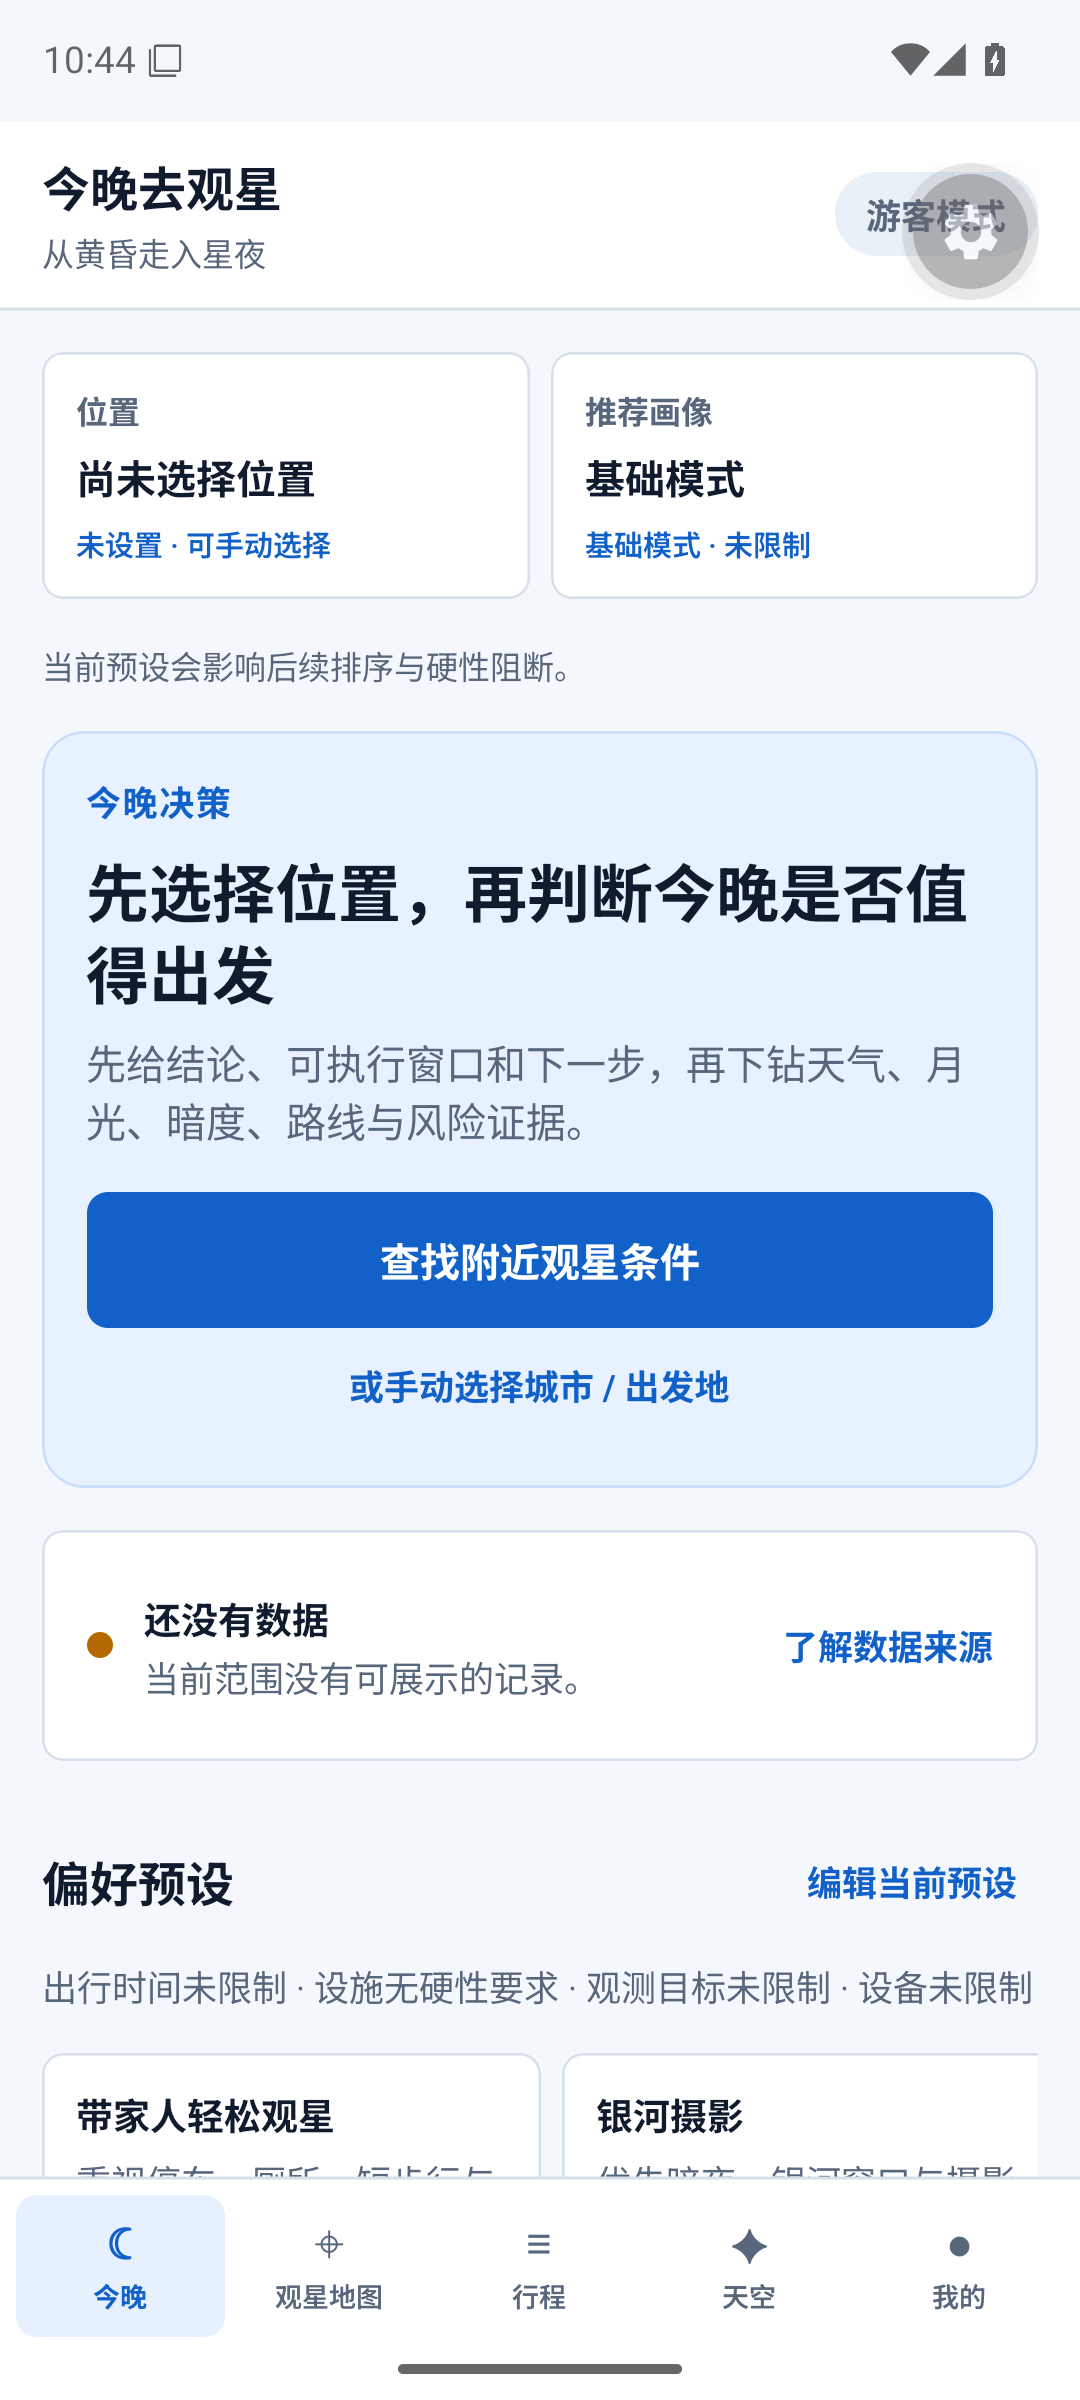
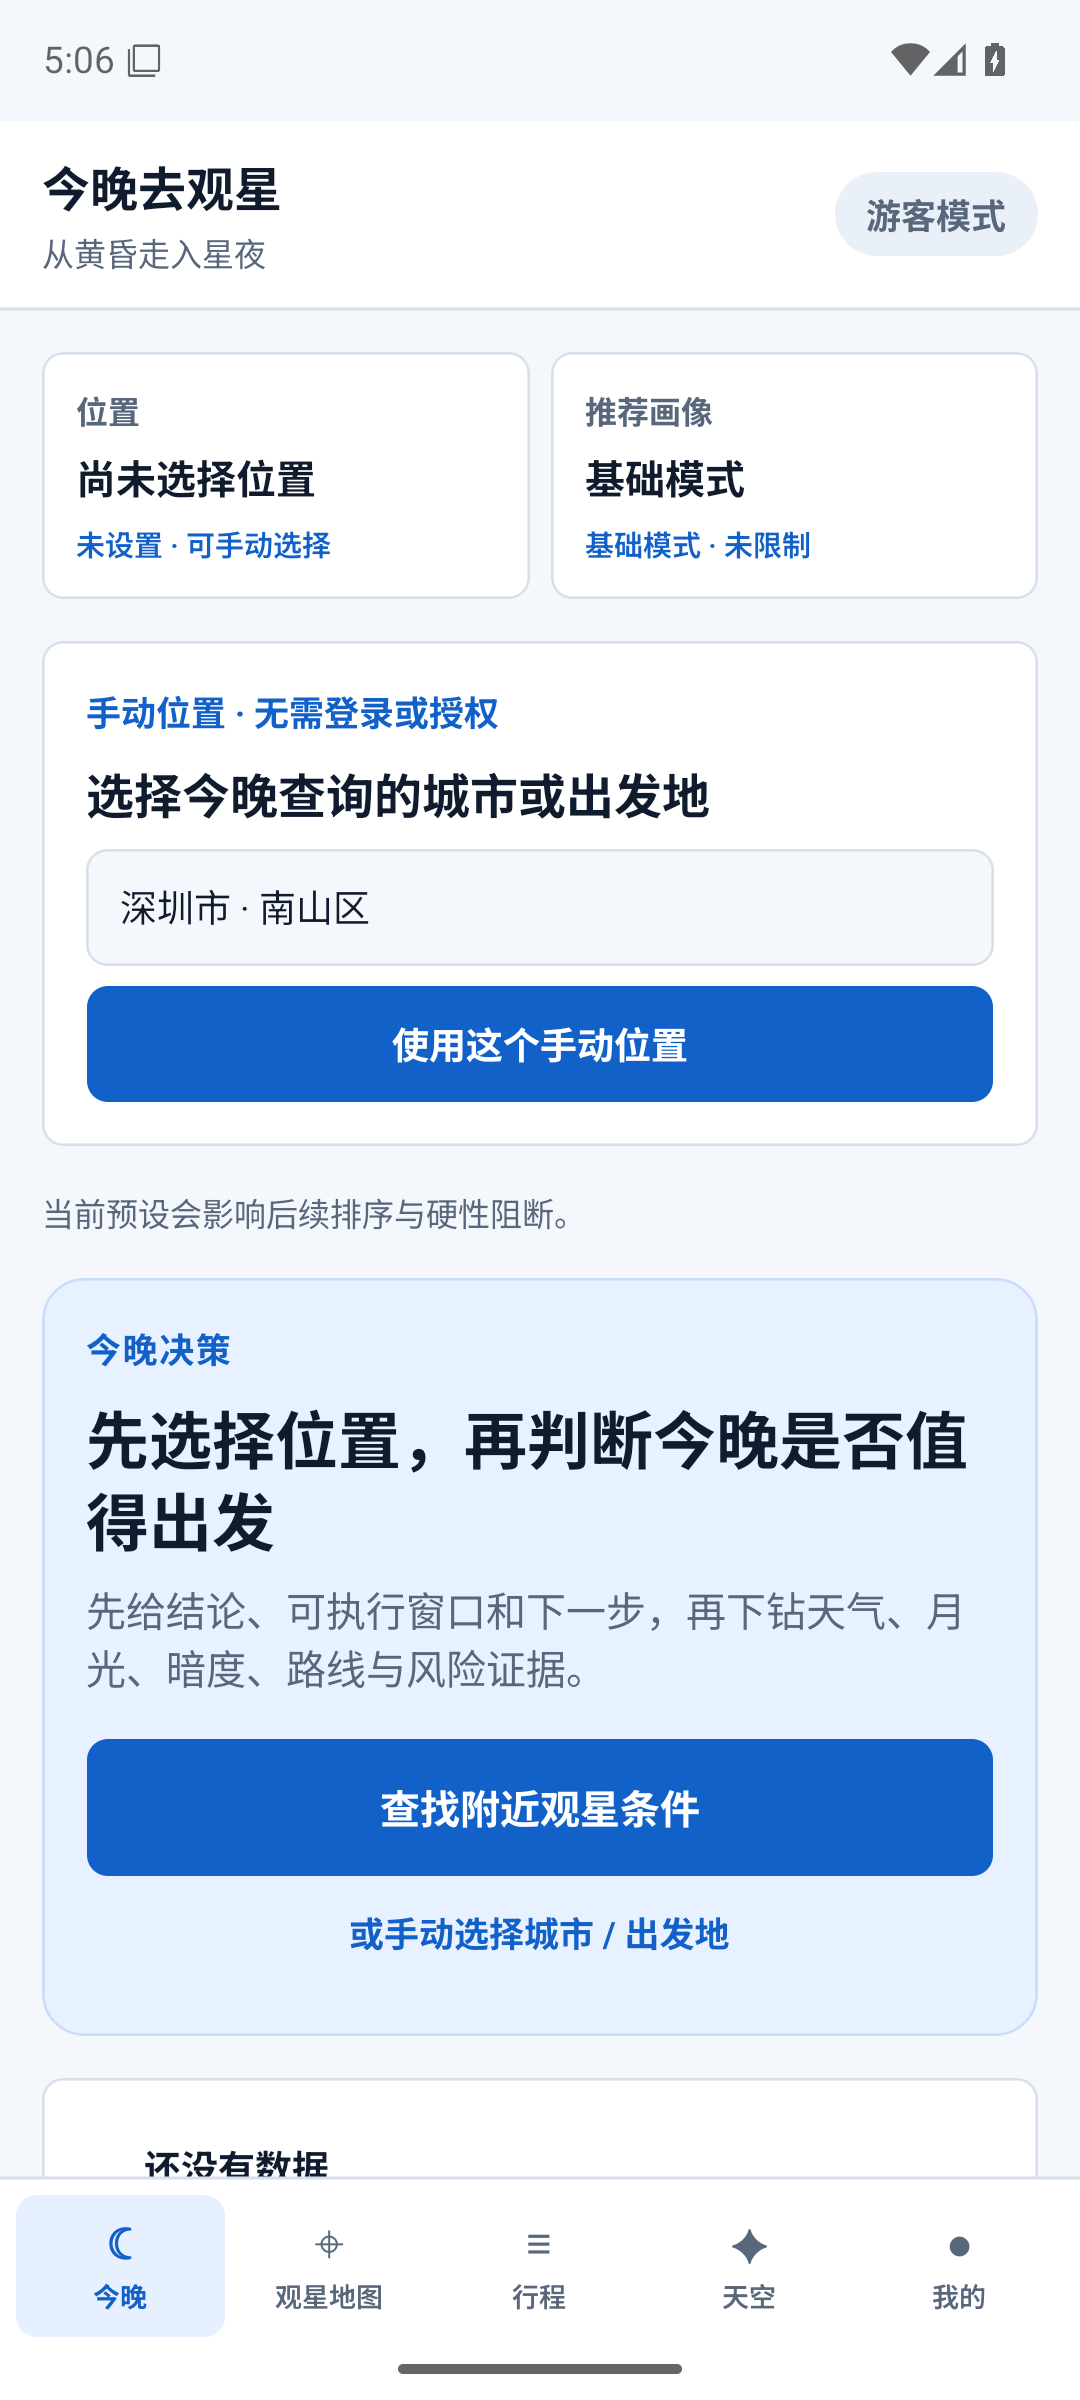
fix: verify native Android product entry

diff --git a/apps/mobile/index.js b/apps/mobile/index.js
@@ -1,3 +1,7 @@
-// Native entrypoint. Web uses index.web.js so verification snapshots do not
-// depend on Expo Router discovering an app directory across a dependency link.
-import "expo-router/entry";
+import { registerRootComponent } from "expo";
+import { WebApplication } from "./src/shell/WebApplication";
+
+// Keep native and web on the same React Native application root. Expo Router
+// remains available to feature code, but an empty route tree must not replace
+// the product shell in native builds.
+registerRootComponent(WebApplication);

diff --git a/apps/mobile/src/shell/WebApplication.tsx b/apps/mobile/src/shell/WebApplication.tsx
@@ -2,6 +2,7 @@ import { QueryClient, QueryClientProvider } from "@tanstack/react-query";
 import { StatusBar } from "expo-status-bar";
 import { useState } from "react";
 import { GestureHandlerRootView } from "react-native-gesture-handler";
+import { Platform } from "react-native";
 import { SafeAreaProvider } from "react-native-safe-area-context";
 import { ForecastScreen } from "../features/forecast/ForecastScreen";
 import { ProfilePrivacyScreen } from "../features/profile/ProfilePrivacyScreen";
@@ -19,7 +20,7 @@ import { QualityScreen } from "../features/admin/QualityScreen";
 import { MobileShellScreen } from "./MobileShellScreen";
 
 function currentLocation() {
-  if (typeof window === "undefined") return { pathname: "/" };
+  if (Platform.OS !== "web" || typeof window === "undefined") return { pathname: "/" };
   const url = new URL(window.location.href);
   return {
     pathname: url.pathname.replace(/\/$/u, "") || "/",